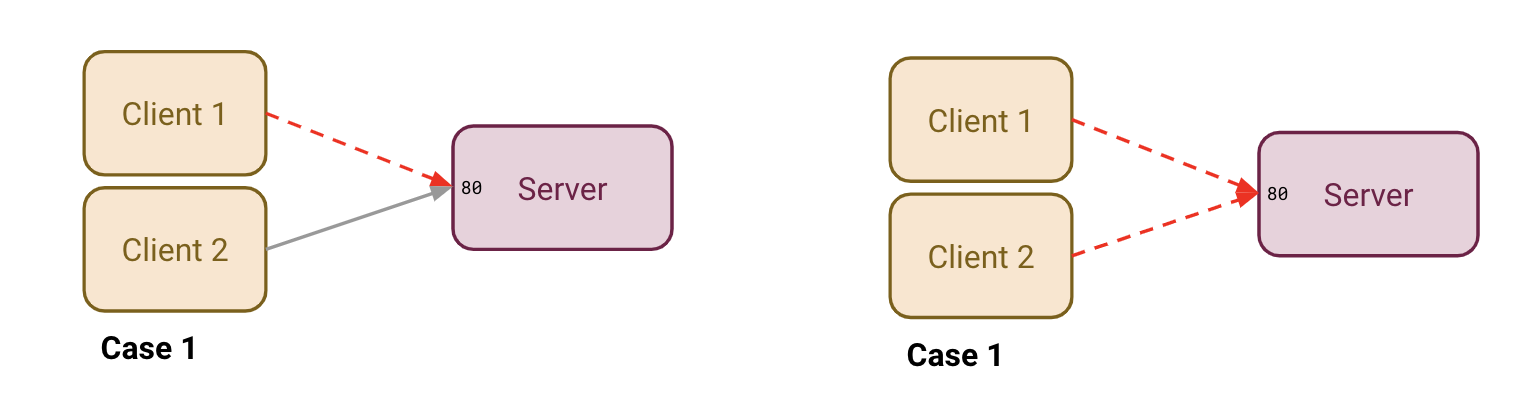
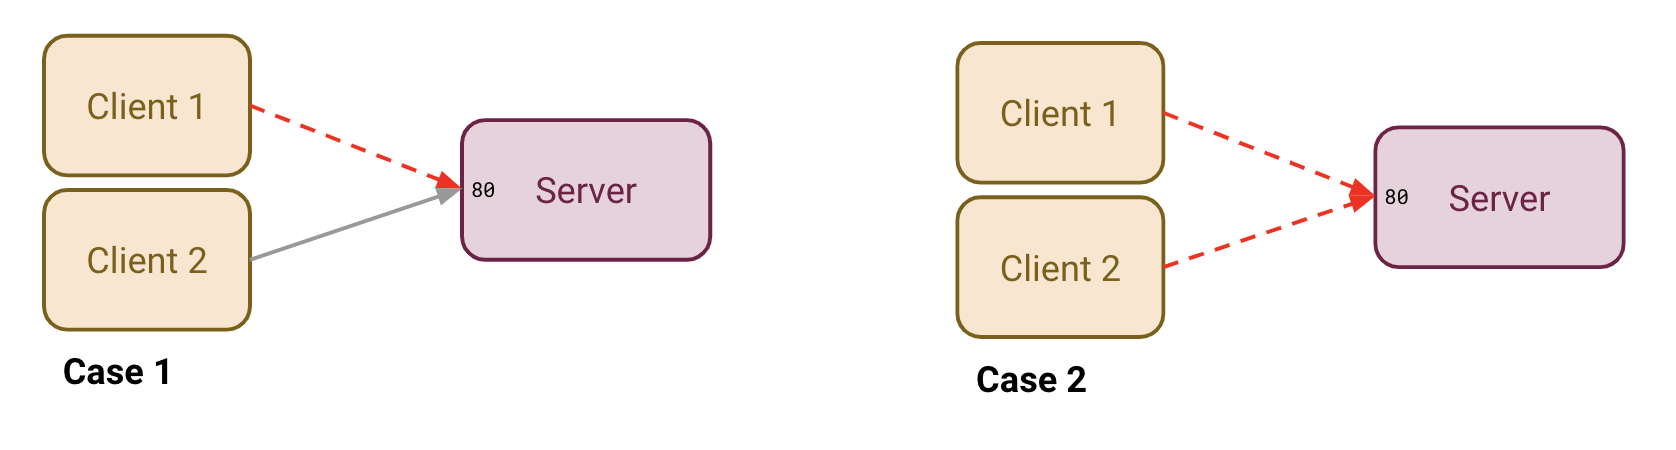
add traffic flow and hosts revamped

Changed region(s): [[0.0, 0.0597, 0.4364, 0.8955], [0.561, 0.0896, 0.9974, 0.9254]]

diff --git a/docs/network_disruption.md b/docs/network_disruption.md
@@ -7,82 +7,99 @@ The `network` field provides an automated way of adding disruptions to the outgo
 * `delay` adds the given delay (with +- jitter) to the outgoing traffic to simulate a slow network
 * `bandwidthLimit` limits the outgoing traffic bandwidth to simulate a bandwidth struggle
 
-All of them can be combined in the same disruption resource.
+All of them can be combined in the same disruption resource. To apply these disruptions, the `tc` utility is used and the behavior is different according to the use cases.
 
-## Traffic flow: egress vs. ingress
+## Q: Should I use egress or ingress for traffic flow?
 
 The `flow` field allows you to either disrupt outgoing traffic (`egress`) or incoming traffic (`ingress`).
 
-### How is it different?
+Note the following when using `ingress` (learn more in the next section):
+* TCP is the only protocol guaranteed to work
+* `ingress` flow should only specifiy `port` and `protocol` fields, not `hosts`
 
-If you're not sure which one you should use, here is a concrete example to let you know how does it work.
-
-Let's say you have 3 pods:
+If you are still not sure which one you should use, let's explore a concrete example. Let's say you have 3 pods:
 * `server`: an nginx pod listening on 80
 * `client1`: a pod hitting nginx on port 80
 * `client2`: another pod hitting nginx on port 80
 
-Now let's explore the different use cases.
+Now let's explore two use cases:
 
-<<<<<<< HEAD
-<kbd> <img src="../docs/img/network_flow_cases.png" height=150 width=600 align="center" /> </kbd>
-=======
 <p align="center"><kbd>
     <img src="../docs/img/network_flow_cases.png" height=150 width=600 align="center" />
 </kbd></p>
->>>>>>> b44cd428... sample diagrams and clarifying changes to network disruption documentation
 
-#### Case 1: I want to disrupt `client1` without impacting `client2`
+### Case 1: I want to disrupt `client1` without impacting `client2`
 
 In this case, you want to target the `client1` pod only and use the `egress` flow so you target packets going from the `client1` pod to the `server` pod.
 
-#### Case 2: I want to disrupt all clients
+### Case 2: I want to disrupt all clients
 
 In this case, you want to target the `server` pod and use the `ingress` flow so you target all incoming packets from both `client1` and `client2` pods.
 
-#### A note on `ingress` flow implementation and UDP
+## Q: Why are there limitations on `ingress`?
 
-*TL;DR: the `ingress` flow only works for TCP and on ports and protocol, not hosts*
-
-<<<<<<< HEAD
-<kbd> <img src="../docs/img/network_flow_ingress.png" height=80 width=300 align="right" /> </kbd>
-=======
 <p align="center"><kbd>
     <img src="../docs/img/network_flow_ingress.png" height=80 width=300 />
 </kbd></p>
->>>>>>> b44cd428... sample diagrams and clarifying changes to network disruption documentation
 
-The current implementation of the `ingress` flow is not a real filter on incoming packets but rather a filter on incoming packets answers (ie. outgoing packets). During a TCP communication, when the client sends a packet to the server, the server answers with an acknowledgement packet to confirm that it received the client's packet. By disrupting this acknowledgement packet, it simulates an ingress disruption. It means that `ingress` flow only works for TCP (or if the server uses UDP to send back an answer to the client).
+The current implementation of the `ingress` flow is not a real filter on incoming packets but rather a filter on responses to these packets (ie. outgoing packets). During a TCP communication, when the client sends a packet to the server, the server answers with an acknowledgement packet to confirm that it received the client's packet. By disrupting this acknowledgement packet, it simulates an ingress disruption. As such, the `ingress` flow implementation will not work for UDP unless the server depends on the response packets.
 
-## Implementation
+Additionally, the `hosts` field cannot be used reliably with `ingress` flow. 
 
-To apply those disruptions, the `tc` utility is used and the behavior is different according to the use cases.
+<p align="center"><kbd>
+    <img src="../docs/img/network_flow_ingress_hosts_setup.png" height=250 width=600 />
+</kbd></p>
 
-### No host is specified
+For instance, if the nginx service is in a cluster of pods using the host network, the `hosts` field contains the cluster IP, but the source IP field of the packet would have the IP of the specific pod from which the request originated.
 
-If no host is specified in the network disruption, the disruptions will be applied to all the outgoing traffic on all interfaces for pods which pass the requirements of the label selector aside from those necessary for healthchecks or communications with Kubernetes. It means that the qdiscs will be created directly from each interface `root` parent and chained together.
+<p align="center"><kbd>
+    <img src="../docs/img/network_flow_ingress_hosts_problem.png" height=200 width=570 />
+</kbd></p>
 
-```
-eth0
-+------------+            +----------+
-|parent: root|            |parent: 1 |
-|handle: 1   +----------->+handle: 2 |
-|qdisc: netem|            |qdisc: tbf|
-+------------+            +----------+
+For now, we do not have a solution for resolving to specific pod IPs.
 
-eth1
-+------------+            +----------+
-|parent: root|            |parent: 1 |
-|handle: 1   +----------->+handle: 2 |
-|qdisc: netem|            |qdisc: tbf|
-+------------+            +----------+
-```
+## Q: When should I specificy hosts?
 
-It is the most common and simplest usage of `tc`.
+As with all disruptions, pods are targeted for injection if they satisfy the conditions of the label selector specified in the `app` field of `selector`. For network disruptions, we can also specify to only disrupt packets interacting with a particular host or set of hosts through the `hosts` field. Let's see some examples.
 
-### One or multiple hosts are specified
+### Assumptions
 
-If at least one host is specified in the network disruption, the injector has to deal with `tc` filters to avoid to apply the disruptions on all the traffic. In this case, a `prio` qdisc will be created from the root parent of the interface used to send traffic to the specified host(s). Other qdiscs will be chained to the `prio` qdisc. Finally, a filter will redirect the traffic going to the specified host(s) through the right `prio` qdisc band.
+In each of the following cases, it is assumed that any port or protocol filters are always being applied and that packets identified as necessary for healthchecks from the cloud service provider or for communications with Kubernetes are ignored. It is also assumed that interfaces refer to interfaces for pods which pass the requirements of the label selector.
+
+### Case 1: No host is specified
+
+If no host is specified in the network disruption, the disruptions will be applied to all the outgoing (`egress`) or incoming (`ingress`) traffic on all interfaces.
+
+<p align="center"><kbd>
+    <img src="../docs/img/network_hosts_egress_all.png" height=250 width=600 />
+</kbd></p>
+
+<p align="center"><kbd>
+    <img src="../docs/img/network_hosts_ingress_all.png" height=250 width=600 />
+</kbd></p>
+
+### Case 2: CIDR specified
+
+If a CIDR block of one or multiple IP addresses is specified (egress only), the disruptions will be applied to any outgoing traffic on interfaces that contain a route table entry to the specified IP addresses.
+
+<p align="center"><kbd>
+    <img src="../docs/img/network_hosts_egress_one.png" height=250 width=600 />
+</kbd></p>
+
+<p align="center"><kbd>
+    <img src="../docs/img/network_hosts_egress_cidr.png" height=250 width=600 />
+</kbd></p>
+
+### Case 3: Hostname specified
+
+Instead of a CIDR, Hostnames can be provided for the `hosts` field. If the chaos-controller fails to resolve the `hosts` field to an IP address or a CIDR block, it tries to resolve the potential hostname on each resolver listed in  `/etc/resolv.conf` in order.
+
+<p align="center"><kbd>
+    <img src="../docs/img/network_hosts_egress_hostname.png" height=250 width=600 />
+</kbd></p>
+
+
+## Implementation Details
 
 #### Trick of using a `prio` qdisc
 
@@ -117,3 +134,41 @@ The injector needs some kernel modules to be enabled to be able to run:
 * [tc-prio](https://linux.die.net/man/8/tc-prio)
 * [tc-tbf](https://linux.die.net/man/8/tc-tbf)
 * [tc-netem](https://man7.org/linux/man-pages/man8/tc-netem.8.html)
+
+
+
+
+
+
+
+
+
+
+
+
+
+
+# REPURPOSE
+It means that the qdiscs will be created directly from each interface `root` parent and chained together.
+
+```
+eth0
++------------+            +----------+
+|parent: root|            |parent: 1 |
+|handle: 1   +----------->+handle: 2 |
+|qdisc: netem|            |qdisc: tbf|
++------------+            +----------+
+
+eth1
++------------+            +----------+
+|parent: root|            |parent: 1 |
+|handle: 1   +----------->+handle: 2 |
+|qdisc: netem|            |qdisc: tbf|
++------------+            +----------+
+```
+
+It is the most common and simplest usage of `tc`.
+
+### Case 2: One or multiple hosts are specified
+
+If at least one host is specified in the network disruption, the injector has to deal with `tc` filters to avoid to apply the disruptions on all the traffic. In this case, a `prio` qdisc will be created from the root parent of the interface used to send traffic to the specified host(s). Other qdiscs will be chained to the `prio` qdisc. Finally, a filter will redirect the traffic going to the specified host(s) through the right `prio` qdisc band.
